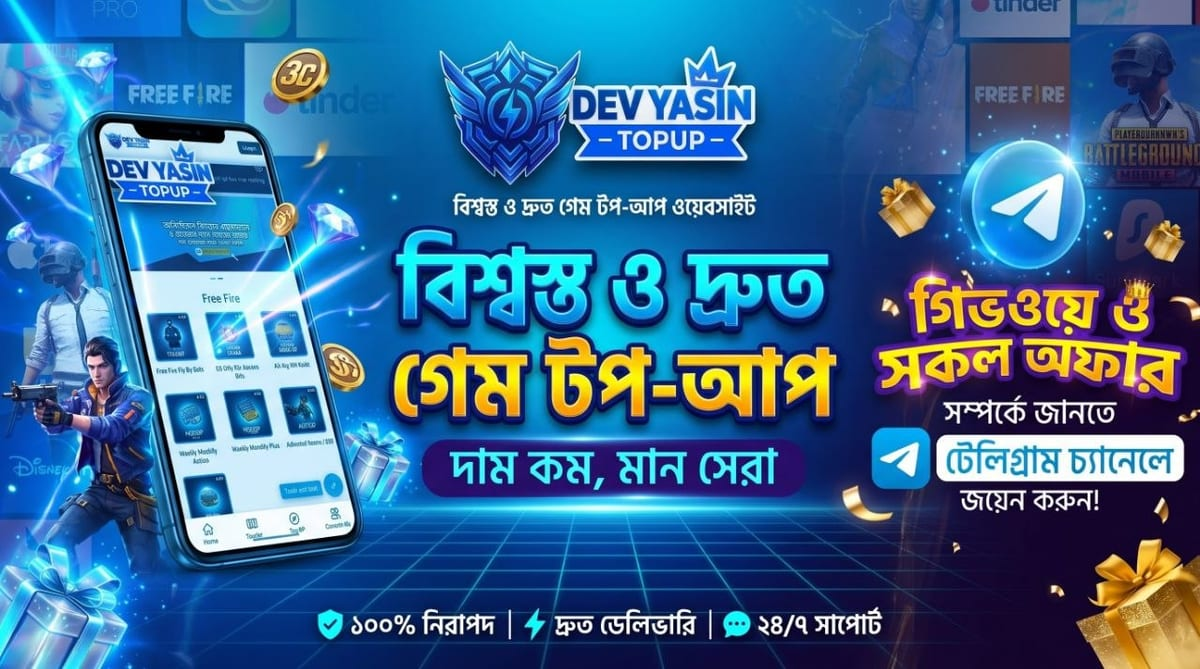
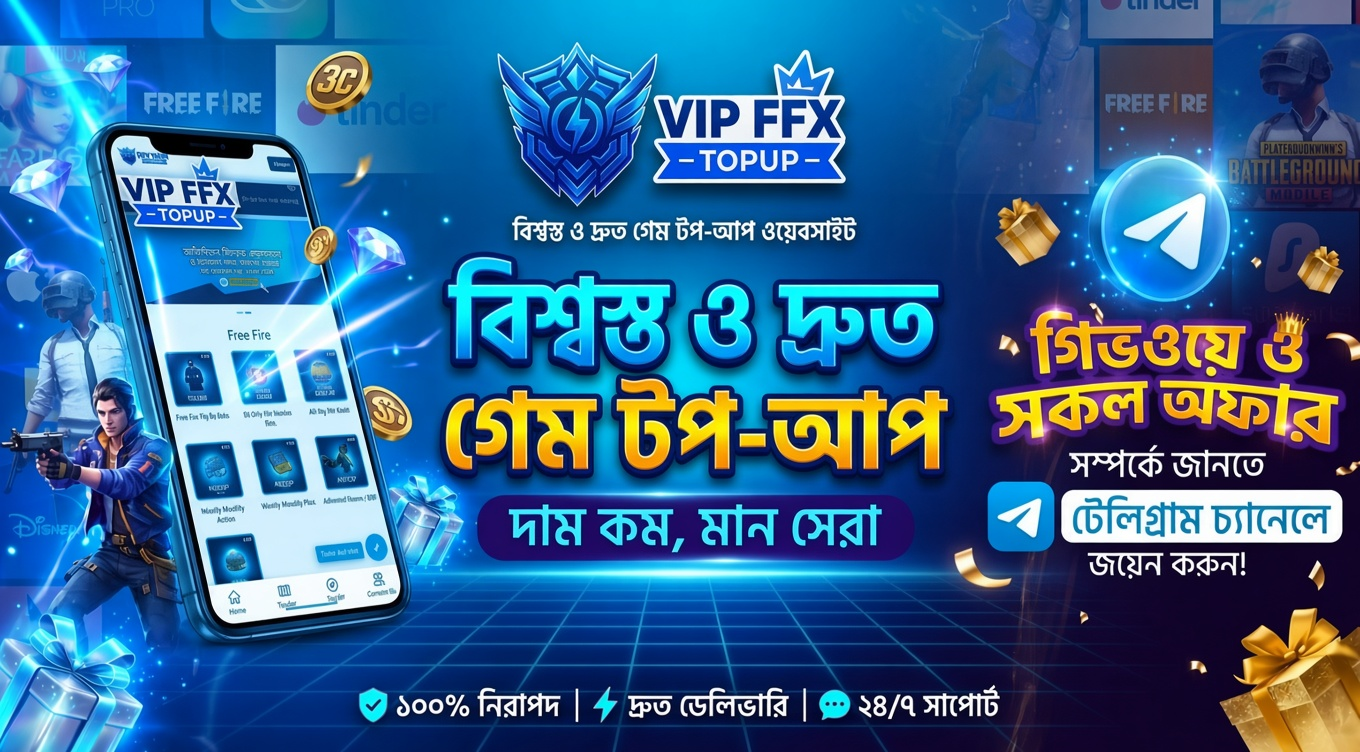
Add files via upload

diff --git a/FFX.html b/FFX.html
@@ -4,19 +4,100 @@
 <meta charset="UTF-8">
 <meta name="viewport" content="width=device-width, initial-scale=1, viewport-fit=cover">
 <meta name="theme-color" content="#ffffff">
+<meta http-equiv="Cache-Control" content="no-cache, no-store, must-revalidate">
+<meta http-equiv="Pragma" content="no-cache">
+<meta http-equiv="Expires" content="0">
 <link rel="icon" type="image/jpeg" href="Main logo.jpg">
 <link rel="shortcut icon" href="Main logo.jpg">
 <link rel="apple-touch-icon" href="Main logo.jpg">
 <meta property="og:image" content="Main logo.jpg">
 <title>Nickname</title>
 <script>
-// account.js কখনো পুরোনো (cache) কপি থেকে না আসুক: সার্ভারে হলে প্রতিবার নতুন করে আনবে
-(function(){
-  var s = (location.protocol.indexOf('http') === 0) ? 'account.js?v=' + Date.now() : 'account.js';
-  document.write('<script src="' + s + '"><\/script>');
+// =======================================================
+// INSTANT CONFIG LOADER & CACHE-BUSTER (Render Live Update)
+// =======================================================
+window.ACCOUNT_CONFIG = window.ACCOUNT_CONFIG || {};
+
+function syncAccountLinks() {
+  var siteName = (typeof website_name !== 'undefined' ? website_name : (window.website_name || (window.ACCOUNT_CONFIG && window.ACCOUNT_CONFIG.websiteName) || '')).trim();
+  if (!siteName) siteName = 'Nickname';
+
+  document.title = siteName;
+  document.querySelectorAll('[data-site-name]').forEach(function(el) {
+    el.textContent = siteName;
+  });
+  document.querySelectorAll('[data-site-logo]').forEach(function(el) {
+    el.alt = siteName;
+  });
+
+  var tgCh = (typeof telegram_channel_link !== 'undefined' ? telegram_channel_link : (window.telegram_channel_link || (window.ACCOUNT_CONFIG && window.ACCOUNT_CONFIG.telegramChannel) || '')).trim();
+  var tgGrp = (typeof telegram_group_link !== 'undefined' ? telegram_group_link : (window.telegram_group_link || (window.ACCOUNT_CONFIG && window.ACCOUNT_CONFIG.telegramGroup) || '')).trim();
+  var ytCh = (typeof youtube_channel_link !== 'undefined' ? youtube_channel_link : (window.youtube_channel_link || (window.ACCOUNT_CONFIG && window.ACCOUNT_CONFIG.youtubeChannel) || '')).trim();
+
+  function sanitize(url, placeholder) {
+    if (!url) return '';
+    url = url.trim();
+    if (!url || url.toLowerCase() === placeholder.toLowerCase() || url === '#' || (url.indexOf(' ') !== -1 && !url.startsWith('http'))) {
+      return '';
+    }
+    if (!/^https?:\/\//i.test(url)) {
+      return 'https://' + url;
+    }
+    return url;
+  }
+
+  var validTgCh = sanitize(tgCh, 'telegram channel link');
+  var validTgGrp = sanitize(tgGrp, 'telegram group link');
+  var validYtCh = sanitize(ytCh, 'YouTube channel link');
+
+  function bindLinks(selector, url) {
+    document.querySelectorAll(selector).forEach(function(el) {
+      if (url) {
+        el.href = url;
+        el.target = '_blank';
+        el.rel = 'noopener noreferrer';
+        el.onclick = null;
+      } else {
+        el.href = '#';
+        el.removeAttribute('target');
+        el.onclick = function(e) {
+          e.preventDefault();
+        };
+      }
+    });
+  }
+
+  bindLinks('[data-link="telegram-channel"]', validTgCh);
+  bindLinks('[data-link="telegram-group"]', validTgGrp);
+  bindLinks('[data-link="youtube-channel"]', validYtCh);
+
+  // নোটিফিকেশন পপআপের লেখা (account.js এর notification_text)
+  var note = (typeof notification_text !== 'undefined' ? notification_text : (window.notification_text || (window.ACCOUNT_CONFIG && window.ACCOUNT_CONFIG.notificationText) || '')).toString();
+  note = note.replace(/\\n/g, '\n').trim();
+  var popEl = document.getElementById('popText');
+  if (popEl && note) {
+    popEl.textContent = '';
+    note.split(/\r?\n/).forEach(function(line, i){
+      if (i) popEl.appendChild(document.createElement('br'));
+      popEl.appendChild(document.createTextNode(line));
+    });
+  }
+}
+
+window.syncAccountLinks = syncAccountLinks;
+
+// Dynamically inject account.js with unique cache-busting timestamp
+(function() {
+  var buster = Date.now() + '_' + Math.floor(Math.random() * 1000000);
+  var s = document.createElement('script');
+  s.src = (location.protocol.indexOf('http') === 0) ? 'account.js?v=' + buster : 'account.js';
+  s.async = false;
+  s.onload = function() {
+    if (typeof syncAccountLinks === 'function') syncAccountLinks();
+  };
+  (document.head || document.documentElement).appendChild(s);
 })();
 </script>
-<script>if(typeof website_name!=='undefined'&&website_name.trim())document.title=website_name.trim();</script>
 <style>
 :root{--bg:#f5f8ff;--card:#fff;--bd:#e1e8f5;--v:#2563eb;--v2:#3b82f6;--gold:#93c5fd;--tx:#0f172a;--mu:#666b85;--g:linear-gradient(135deg,#3b82f6,#1d4ed8)}
 *{box-sizing:border-box;margin:0;padding:0;-webkit-tap-highlight-color:transparent}
@@ -752,30 +833,83 @@ function syncAccountLinks() {
 syncAccountLinks();
 document.addEventListener('DOMContentLoaded', syncAccountLinks);
 
-// Fallback plain-text fetch (works on HTTP/HTTPS servers or supported environments)
-if (window.location.protocol.indexOf('http') === 0) {
-  fetch('account.js').then(function(r){ return r.text(); }).then(function(txt){
-    var lines = txt.split(/\r?\n/).map(function(l){ return l.trim(); }).filter(function(l){
-      return l && !l.startsWith('//') && !l.startsWith('/*') && !l.startsWith('*');
-    });
-    var name = '', ch = '', grp = '', yt = '';
-    var mName = txt.match(/website_name\s*=\s*["']([^"']+)["']/i);
-    var mCh = txt.match(/telegram_channel_link\s*=\s*["']([^"']+)["']/i);
-    var mGrp = txt.match(/telegram_group_link\s*=\s*["']([^"']+)["']/i);
-    var mYt = txt.match(/youtube_channel_link\s*=\s*["']([^"']+)["']/i);
-    if (mName) name = mName[1];
-    if (mCh) ch = mCh[1];
-    if (mGrp) grp = mGrp[1];
-    if (mYt) yt = mYt[1];
-    if (name) window.website_name = name;
-    if (ch) window.telegram_channel_link = ch;
-    if (grp) window.telegram_group_link = grp;
-    if (yt) window.youtube_channel_link = yt;
-    var mNote = txt.match(/notification_text\s*=\s*(["'`])([\s\S]*?)\1\s*;/i);
-    if (mNote) window.notification_text = mNote[2];
-    syncAccountLinks();
-  }).catch(function(){});
+// Instant Live Fetch with strict no-cache headers to bypass browser and CDN cache
+function fetchFreshAccountConfig() {
+  if (window.location.protocol.indexOf('http') !== 0) return;
+  var buster = Date.now() + '_' + Math.floor(Math.random() * 1000000);
+  var url = 'account.js?v=' + buster + '&_t=' + Math.random();
+  fetch(url, {
+    method: 'GET',
+    cache: 'no-store',
+    headers: {
+      'Cache-Control': 'no-cache, no-store, must-revalidate',
+      'Pragma': 'no-cache',
+      'Expires': '0'
+    }
+  }).then(function(res){
+    if (!res.ok) return '';
+    return res.text();
+  }).then(function(txt){
+    if (!txt) return;
+
+    // 1. Try direct evaluation
+    var parsed = false;
+    try {
+      var runner = new Function(txt + '\n;return {' +
+        'website_name: (typeof website_name !== "undefined" ? website_name : null),' +
+        'telegram_channel_link: (typeof telegram_channel_link !== "undefined" ? telegram_channel_link : null),' +
+        'telegram_group_link: (typeof telegram_group_link !== "undefined" ? telegram_group_link : null),' +
+        'youtube_channel_link: (typeof youtube_channel_link !== "undefined" ? youtube_channel_link : null),' +
+        'notification_text: (typeof notification_text !== "undefined" ? notification_text : null)' +
+      '};');
+      var cfg = runner();
+      if (cfg) {
+        if (cfg.website_name !== null) window.website_name = cfg.website_name;
+        if (cfg.telegram_channel_link !== null) window.telegram_channel_link = cfg.telegram_channel_link;
+        if (cfg.telegram_group_link !== null) window.telegram_group_link = cfg.telegram_group_link;
+        if (cfg.youtube_channel_link !== null) window.youtube_channel_link = cfg.youtube_channel_link;
+        if (cfg.notification_text !== null) window.notification_text = cfg.notification_text;
+        parsed = true;
+      }
+    } catch(e) {}
+
+    // 2. Fallback regex extraction (supports double quotes, single quotes, and backticks without needing semicolons)
+    if (!parsed) {
+      var extractProp = function(prop) {
+        var re = new RegExp(prop + '\\s*=\\s*([`"\'])([\\s\\S]*?)\\1', 'i');
+        var m = txt.match(re);
+        return m ? m[2].trim() : null;
+      };
+      var name = extractProp('website_name');
+      var tgCh = extractProp('telegram_channel_link');
+      var tgGrp = extractProp('telegram_group_link');
+      var ytCh = extractProp('youtube_channel_link');
+      var note = extractProp('notification_text');
+
+      if (name !== null) window.website_name = name;
+      if (tgCh !== null) window.telegram_channel_link = tgCh;
+      if (tgGrp !== null) window.telegram_group_link = tgGrp;
+      if (ytCh !== null) window.youtube_channel_link = ytCh;
+      if (note !== null) window.notification_text = note;
+    }
+
+    if (typeof syncAccountLinks === 'function') syncAccountLinks();
+  }).catch(function(err){
+    console.warn('Account config live fetch notice:', err);
+  });
 }
+
+fetchFreshAccountConfig();
+document.addEventListener('DOMContentLoaded', function(){
+  if (typeof syncAccountLinks === 'function') syncAccountLinks();
+  fetchFreshAccountConfig();
+});
+window.addEventListener('load', function(){
+  if (typeof syncAccountLinks === 'function') syncAccountLinks();
+});
+
+// Render-এ ডিপ্লয় হওয়ার সাথে সাথে যাতে ভিজিটরদের পেজ রিফ্রেশ না করলেও আপডেট হয়ে যায় (প্রতি ১৫ সেকেন্ডে চেক করবে)
+setInterval(fetchFreshAccountConfig, 15000);
 
 // ==========================================
 // ==========================================
@@ -1039,7 +1173,11 @@ if (window.location.protocol.indexOf('http') === 0) {
 // ==========================================
 (function(){
   var pop = document.getElementById('pop');
-  function openP(){ pop.classList.add('show'); document.body.style.overflow='hidden'; }
+  function openP(){
+    if (typeof window.syncAccountLinks === 'function') window.syncAccountLinks();
+    pop.classList.add('show');
+    document.body.style.overflow='hidden';
+  }
   function closeP(){ pop.classList.remove('show'); document.body.style.overflow=''; }
   document.getElementById('pclose').onclick = closeP;
   pop.addEventListener('click', function(e){ if (e.target === pop) closeP(); });
@@ -1047,6 +1185,7 @@ if (window.location.protocol.indexOf('http') === 0) {
   setTimeout(openP, 500);
 
   document.getElementById('fb').onclick = function(){
+    if (typeof window.syncAccountLinks === 'function') window.syncAccountLinks();
     document.getElementById('fab').classList.toggle('open');
   };
 })();

diff --git a/account.js b/account.js
@@ -1,12 +1,12 @@
 // =======================================================
 // WEBSITE NAME (NICKNAME)
 // =======================================================
-var website_name = "YASIN";
+var website_name = "VIP FFX";
 
 // =======================================================
 // TELEGRAM CHANNEL LINK
 // =======================================================
-var telegram_channel_link = "telegram channel link";
+var telegram_channel_link = "https://t.me/+WbF0xCsHQ_ZhMmU9";
 
 // =======================================================
 // TELEGRAM GROUP LINK
